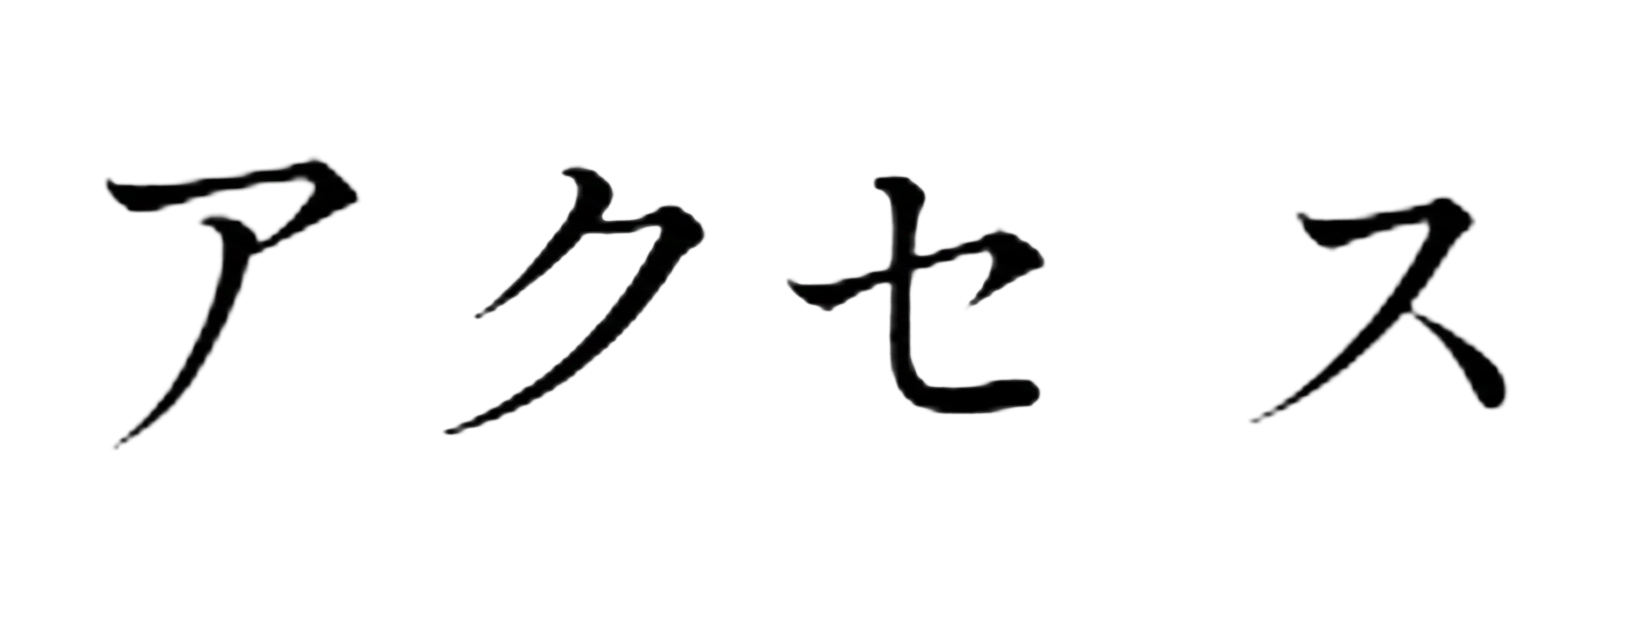
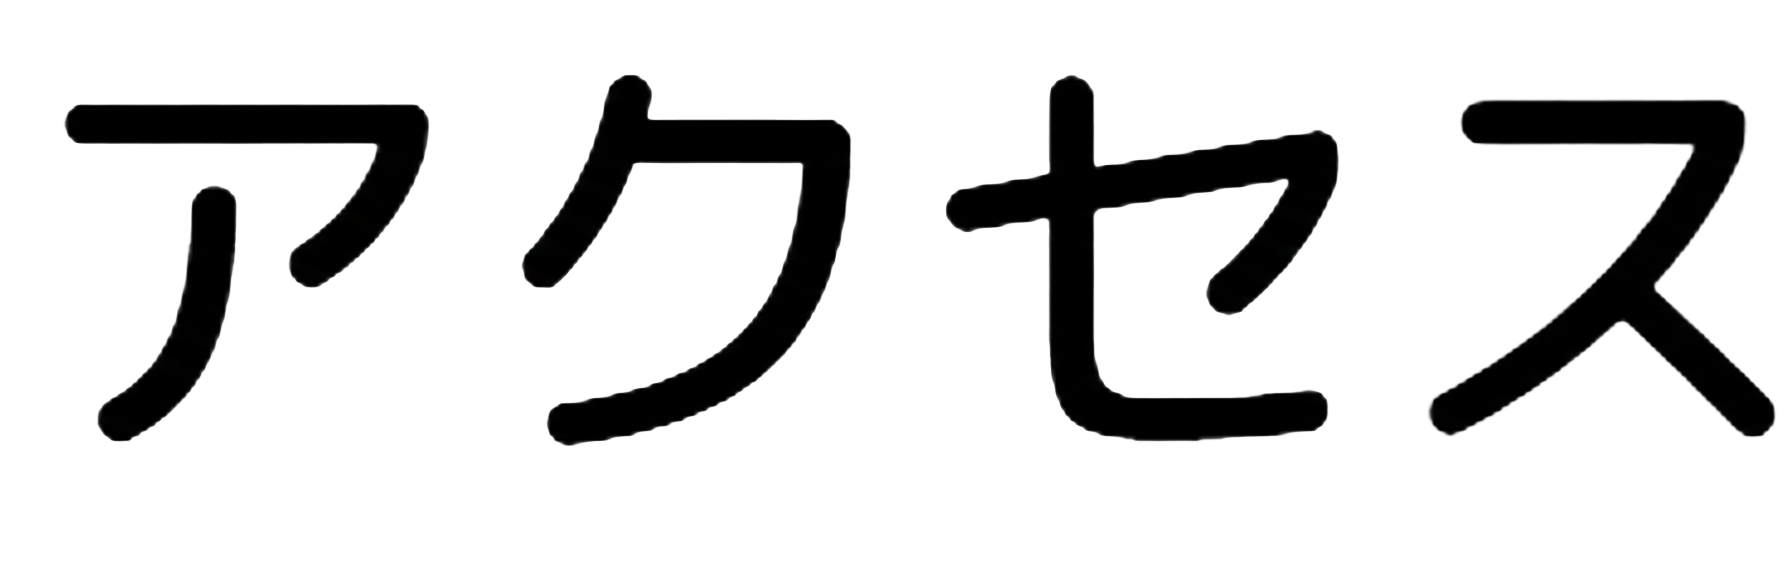
変更

Changed region(s): [[0.25, 0.125, 0.75, 0.7812], [0.75, 0.1562, 1.0, 0.7812], [0.0312, 0.1562, 0.25, 0.7812]]

diff --git a/menu.html b/menu.html
@@ -82,13 +82,14 @@
 				<tr>
 					<td><img src="" alt="アイスコーヒー"><p>アイスコーヒー<br>600円</p></td>
 					<td><img src="img/ice-cafelate.png" alt="アイスカプチーノ"><p>アイスカプチーノ<br>600円</p></td>
-					<td><img src="img/ice-cafelate.png" alt="アイスカフェラテ"><p>アイスカフェラテ<br>600円</p></td>
+					<td><img src="" alt="アイスキャラメルラテ"><p>アイスキャラメルラテ<br>700円</p></td>
 				</tr>
 			</table><br>
 
 			<table>
 				<tr>
 					<td><img src="" alt="アイスカフェモカ"><p>アイスカフェモカ<br>700円</p></td>
+					<td><img src="img/ice-cafelate.png" alt="アイスカフェラテ"><p>アイスカフェラテ<br>600円</p></td>
 					<td><img src="" alt="アイスティー"><p>アイスティー<br>600円</p></td>
 				</tr>
 			</table><br>
@@ -118,7 +119,7 @@
 
 			<section>
 			<h2>Lunch menu</h2>
-			<p>ランチの最新情報はこちら<img src="" alt="インスタグラム"></p>
+			<p class="imsta">ランチの最新情報はこちら<img src="img/imsta.png" alt="インスタグラム"></p>
 			<br>
 			<tr>
 				<td>日替わりメニュー(単品)</td>
@@ -127,7 +128,7 @@
 			</tr>
 			<br>
 			<tr>
-				<th><img src="" alt="ラップサンド"></th>
+				<th><img class="wrap-sandwich" src="img/wrap-sandwich.jpg" alt="ラップサンド"></th>
 			</tr>
 			<th>
 				<td>ラップサンド(単品)</td>

diff --git a/access.html b/access.html
@@ -32,7 +32,7 @@
     	<header class=header-container>
       		<h1>
         		<!--src = source　ファイルパス-->
-        		<a href="index.html"><img src="images/logo.svg" alt="武蔵野CAFE"></a>
+        		<a href="index.html"><img src="img/musashinocafe.png" alt="武蔵野CAFE"></a>
       		</h1>
       	<!--nav = navigation(ナビゲーション)-->
     	  	<nav class="Burger_Menu">
@@ -42,7 +42,7 @@
     	</header>
   	</div>
 
-	<h2 class="center">アクセス</h2>
+	<h2 class="center access"><img src="img/img-access.png" alt="アクセス"></h2>
 <iframe src="https://www.google.com/maps/embed?pb=!1m18!1m12!1m3!1d29025.016396189025!2d139.4624924958045!3d35.71374859251485!2m3!1f0!2f0!3f0!3m2!1i1024!2i768!4f13.1!3m3!1m2!1s0x6018e57c1ebb4885%3A0xe18354a21541a82d!2z5q2m6JS16YeOQ0FGRQ!5e0!3m2!1sja!2sjp!4v1768918011271!5m2!1sja!2sjp" width="600" height="450" style="border:0;" allowfullscreen="" loading="lazy" referrerpolicy="no-referrer-when-downgrade"></iframe>	<a class="center" href="https://maps.app.goo.gl/FxspSD8zLBJnNMwz7">Googlemap</a>
 	<div>
 		<h4>[バスでお越しの方]</h4>

diff --git a/business.html b/business.html
@@ -32,7 +32,7 @@
     	<header class=header-container>
       		<h1>
         		<!--src = source　ファイルパス-->
-        		<a href="index.html"><img src="images/logo.svg" alt="武蔵野CAFE"></a>
+        		<a href="index.html"><img src="img/musashinocafe.png" alt="武蔵野CAFE"></a>
       		</h1>
       	<!--nav = navigation(ナビゲーション)-->
     	  	<nav class="Burger_Menu">
@@ -42,10 +42,10 @@
     	</header>
   	</div>
 
-    <section class="calender">
-        <h2 class="center">営業日・営業時間</h2>
-        <img src="img/calender.jpg" alt="カレンダー"><br>
-		<table class="business" style="width: 100%;">
+    <section>
+        <h2 class="center"><img class="business" src="img/img-business.png" alt="営業日・営業時間"></h2>
+        <img class="calender" src="img/calender.jpg" alt="カレンダー"><br>
+		<table class="business-time" style="width: 100%;">
 	        <tr class="center">
     	        <th>定休日</th>
         	    <td>水・木曜日</td>

diff --git a/css/index.css b/css/index.css
@@ -1,7 +1,7 @@
 @charset "UTF-8";
 
 body{
-	background-color: #e2e2e2;
+	background-color: #bbb9b9;
 }
 .header-container {
 	display: flex;
@@ -207,24 +207,36 @@ h3, .center{
 .alcohol1{
 	width: 80%;
 	height: auto;
-	
 }
 .alcohol2{
-	width: 84%;
+	width: 76%;
 	height: auto;
 }
 .alcohol3{
-	width: 59%;
+	width: 53%;
 	height: auto;
 }
 
+.wrap-sandwich{
+	width: 30%;
+}
+
 /*アクセス*/
+.access img{
+	width: 100px;
+	height: auto;
+}
+
 iframe{
 	width: 100%;
 }
 
 /*営業日・営業時間*/
-.calender img{
+.business{
+	width: 200px;
+	height: auto;
+}
+.calender{
 	display: block;
 	margin-left: auto;
 	margin-right: auto;
@@ -232,15 +244,19 @@ iframe{
 	width: auto;
 }
 
-.business th, .business td{
+.business-time th, .business-time td{
 	border: 2px solid black;
 }
 
 /*hambergermenu*/
 .img1-hamberger, .img2-hamberger{
-	height: 50px;
+	height: 30px;
+}
+
+.img1-hamberger{
+	margin-bottom:10px ;
 }
 
 .img3-hamberger{
-	height: 30px;
+	height: 50px;
 }
